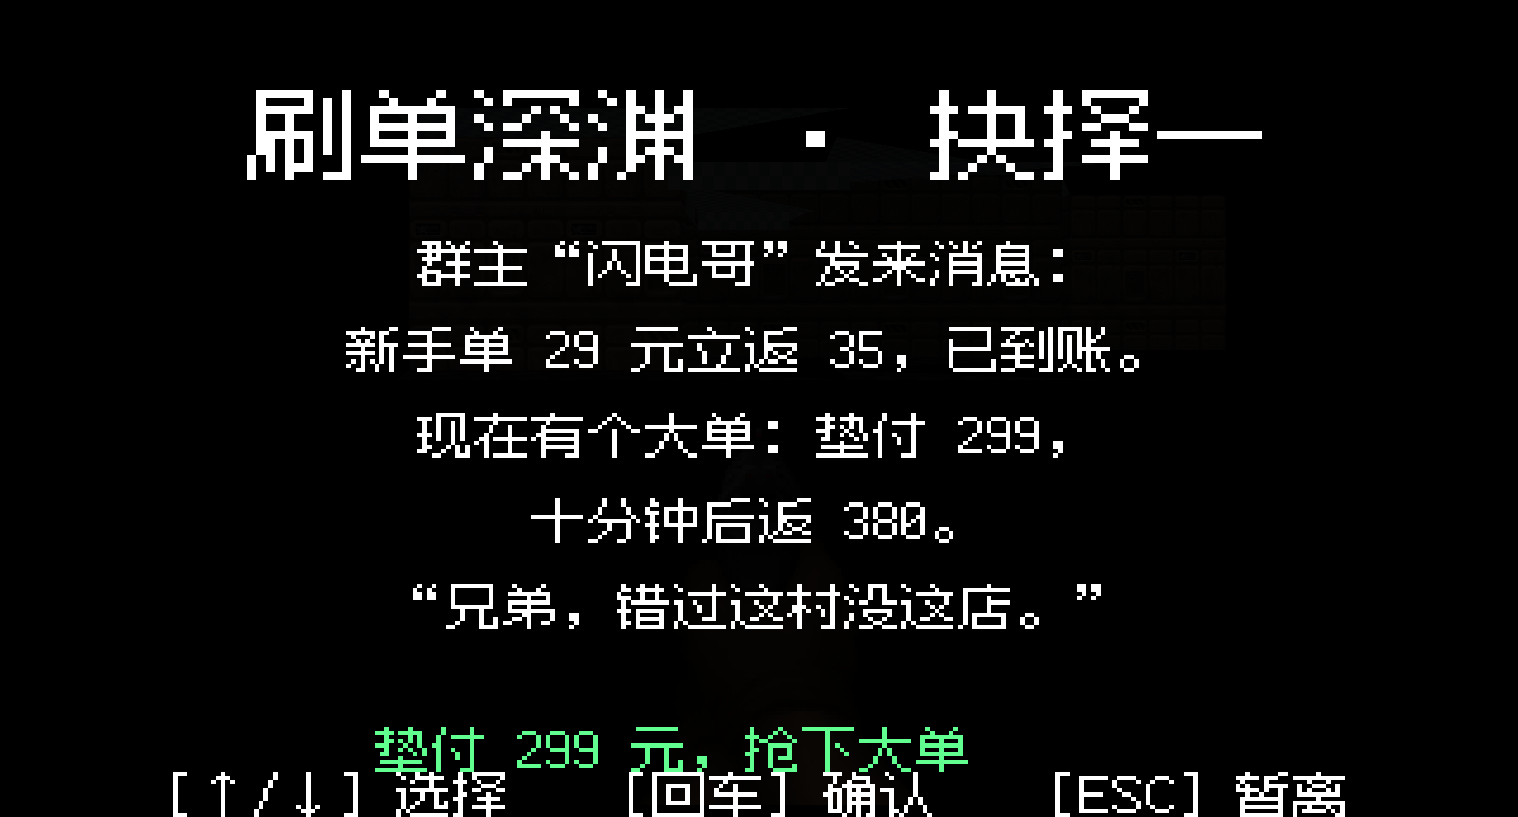
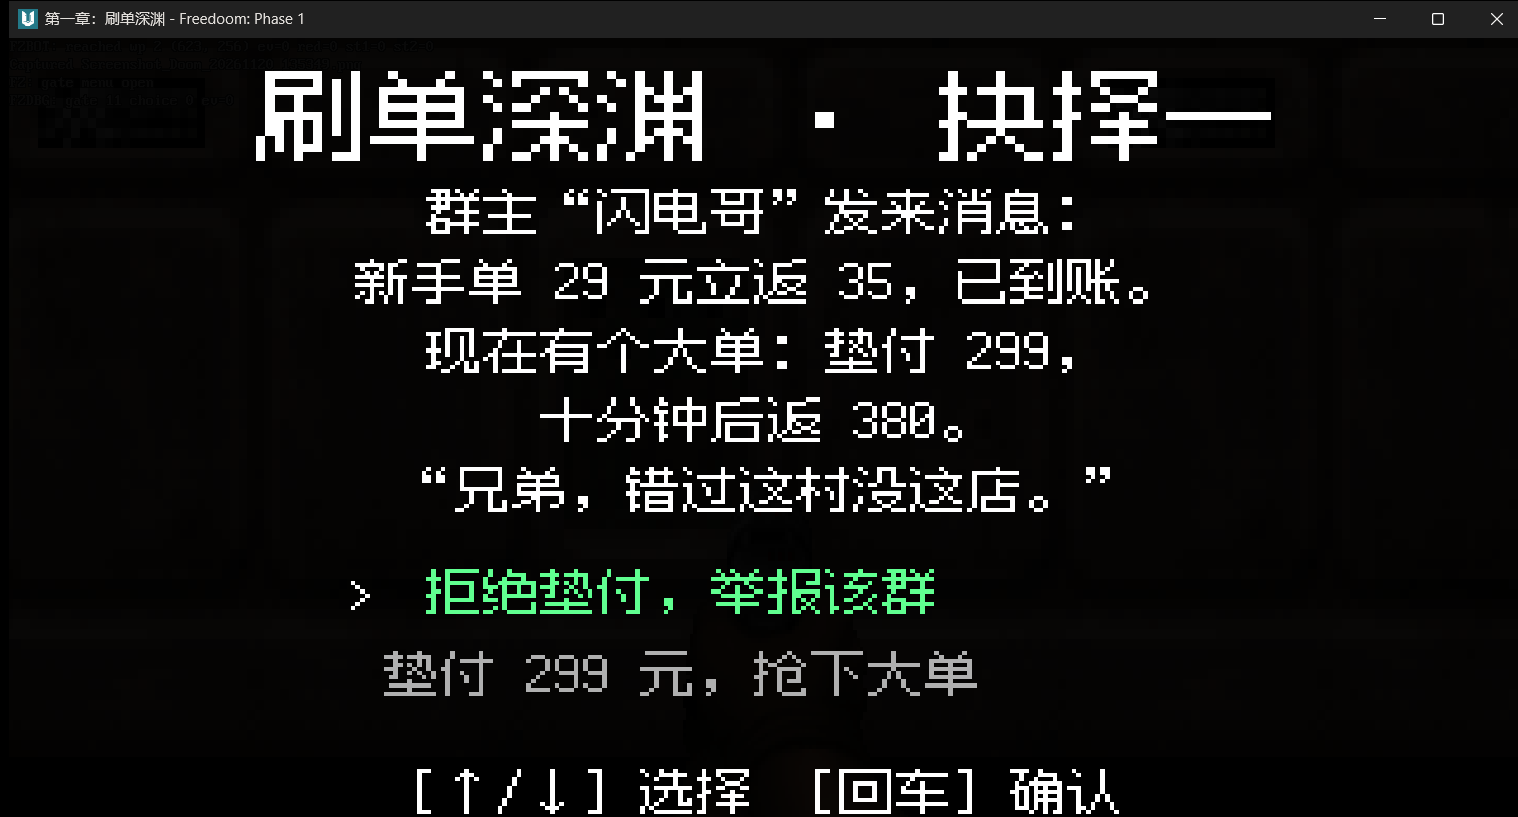
docs: 更新截图与过时说明
- README：换用最新标题页/抉择菜单/竞技场 HUD/Boss 战截图，修复 quickstart 中被转义吃掉的路径
- 验收清单：单集模式自动跳过章节菜单；标题页 demo 行为记录
- 剧情/构建文档：结算页现状与卷宗图定位；协作入口补仓库地址与网络说明

diff --git a/README.md b/README.md
@@ -1,6 +1,8 @@
 # 反诈战士
 
 基于 Doom 引擎（UZDoom 5.0.3 + Freedoom）的公安反诈宣传游戏。
+
+开源仓库：<https://github.com/Fiagainster/anti-fraud-warrior>（GPL-3.0）
 **当前状态：三章演示可玩，已出交付包** —— 刷单深渊 / 装备黑市 / 警服幻影。
 
 ## 交付包
@@ -21,9 +23,9 @@ dist/fanzha-demo-v0.1/           ← 解压即玩的目录
 
 ```powershell
 python tools\doctor.py                 # 环境自检（缺什么会告诉你）
-python toolsetch_vendor.py status    # 校验引擎/IWAD/字体（大文件不入库）
-python toolsuild.py                  # 缺地图/字体会自动生成
-python toolsz_ctl.py check           # 编译预检
+python tools\fetch_vendor.py status    # 校验引擎/IWAD/字体（大文件不入库）
+python tools\build.py                  # 缺地图/字体会自动生成
+python tools\fz_ctl.py check           # 编译预检
 ```
 
 - 角色手册：美术 / 地图 / 程序 / 剧情 / 音频（`docs/协作/角色-*.md`）
@@ -80,9 +82,13 @@ python tools\fz_ctl.py full     # 三章马拉松（战斗/过场/切换）
 
 ## 截图
 
-![第一章 HUD](docs/images/chapter1-hud.png)
+| 标题页 | 抉择菜单 |
+|---|---|
+| ![标题页](docs/images/title.png) | ![抉择菜单](docs/images/chapter1-gate.png) |
 
-![抉择菜单](docs/images/chapter1-gate.png)
+| 竞技场与 HUD | Boss 战 |
+|---|---|
+| ![第一章 HUD](docs/images/chapter1-hud.png) | ![Boss 战](docs/images/chapter1-boss.png) |
 
 ## 目录
 

diff --git a/docs/晨间验收清单.md b/docs/晨间验收清单.md
@@ -5,10 +5,10 @@
 ## A. 交付包（推荐，模拟真实玩家）
 
 1. 解压 `dist/fanzha-demo-v0.1.zip` 到任意目录（路径不要含奇怪字符）。
-2. 双击 `run.bat`。窗口 1280×720，标题画面按回车 → 选章节（第一章）→ 开始。
+2. 双击 `run.bat`。窗口 1280×720，标题画面按回车 → **难度选择**（只有一个章节，引擎会自动跳过章节菜单）→ 开始。
 3. 底部应看到中文 HUD：
    `反诈战士 / 警惕值 100 / 防骗盾 0 / 证据 0/3 / 进度 0/3 / 调查刷单群 / 96110`。
-4. 停留几秒，左下依次弹出三条简报字幕（简报/提示/提示）。
+4. 停留几秒，屏幕中下方依次弹出三条简报字幕（简报/提示/提示）。
 5. 沿走廊向东，走进发光终端 → 自动弹出抉择菜单：
    - 第一项是正确项（绿色高亮）：`拒绝垫付，举报该群`
    - 回车确认 → 防骗盾 +10、证据 +1、关卡进度 1/3
@@ -41,3 +41,5 @@ python tools\fz_ctl.py tour     # 第一章全程回归（预期 9/9 通过）
 - 若启动随机崩溃：删除 `%LOCALAPPDATA%\doom\uzdoom\vulkanpipelinecache`
   再启动（强杀进程会弄脏 Vulkan 缓存）
 - 全屏下若画面发虚：用窗口模式（run.bat 默认），根因是 DPI 拉伸
+- 标题页停留数秒会播放 Freedoom 自带的旧格式 demo（作用于当前起始地图），
+  按任意键回到标题；后续用 TITLEMAP 或自录 DEMO 替换

diff --git a/docs/协作/README.md b/docs/协作/README.md
@@ -6,7 +6,7 @@
 ## 30 分钟上手
 
 ```powershell
-git clone <仓库地址>
+git clone https://github.com/Fiagainster/anti-fraud-warrior.git
 cd 反诈战士
 git lfs install                 # 如需拉取美术/音频源文件
 
@@ -48,6 +48,11 @@ python tools\fz_ctl.py tour     # 第一章自动化回归（预期 9/9）
 文档        docs/        方案、剧情、验收、协作手册
 产物        build/ dist/ 构建与交付（不入库）
 ```
+
+## 网络
+
+若 `github.com` 直连不稳定：给 git 配代理
+（`git config --global http.proxy http://127.0.0.1:<端口>`），或改用 `gh`（走 `api.github.com`）。下载引擎/IWAD 同理。
 
 ## 沟通与节奏
 

diff --git a/docs/剧情.md b/docs/剧情.md
@@ -71,7 +71,7 @@
 
 ## 结算/知识回收（每章末 intermission）
 
-背景图为 PIL 生成的"案件卷宗"图，列出：识破点、错误代价、本章知识点（2-3 条）、96110 提示。
+背景图为 PIL 生成的"案件卷宗"图（FZBKGRD1-3）。当前版本结算走引擎标准页（击杀/物品/时间），卷宗图作为后续自定义 finale 的预留素材；文案结构：识破点、错误代价、本章知识点（2-3 条）、96110 提示。
 
 ## 三章关卡结构（每张 8-12 分钟）
 

diff --git a/docs/协作/构建与验收.md b/docs/协作/构建与验收.md
@@ -62,3 +62,4 @@ python tools\make_dist.py         # 出交付包 dist/fanzha-demo-v0.1{.zip,/}
 | 地图变化没体现 | `build/maps/*.wad` 是拷贝产物，重新 `build.py` |
 | 自动化截图是黑屏 | 窗口被最小化/被别的窗口遮挡；确保测试窗口在前台 |
 | ESC 打不开菜单 | 长按约 2 秒；短按会被按键重复机制吞掉 |
+| 标题页自己动起来 | Freedoom 旧格式 demo 播放，按任意键回标题（已知行为） |
